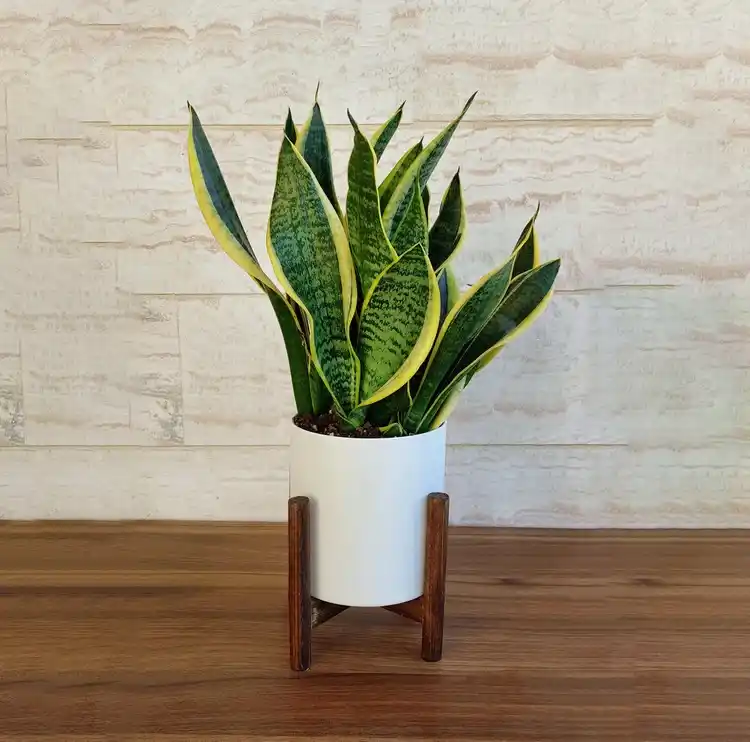
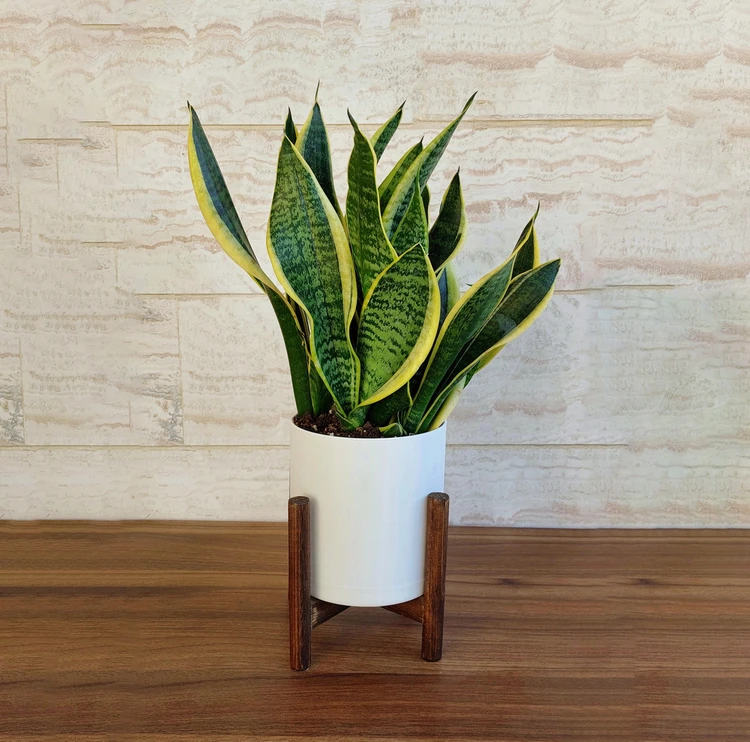
Build and refine responsive plant repotting section

diff --git a/pages/Irrigation.html b/pages/Irrigation.html
@@ -69,7 +69,7 @@
             <h3 class="font-bold text-white">سانسوریا</h3>
             <p class="mt-1 text-xs text-[#D8E3D5]">گیاه مقاوم به خشکی</p>
           </div>
-          <i class="fa-solid fa-seedling text-xl text-[#D8E3D5]"></i>
+          <i class="fa-solid fa-droplet text-xl text-[#D8E3D5]"></i>
         </div>
         <div class="bg-white p-5 text-right">
           <p class="mb-2 text-sm text-[#73796F]">زمان آبیاری</p>
@@ -85,7 +85,7 @@
             <h3 class="font-bold text-white">زامیفولیا</h3>
             <p class="mt-1 text-xs text-[#D8E3D5]">گیاه مقاوم به خشکی</p>
           </div>
-          <i class="fa-solid fa-seedling text-xl text-[#D8E3D5]"></i>
+          <i class="fa-solid fa-droplet text-xl text-[#D8E3D5]"></i>
         </div>
         <div class="bg-white p-5 text-right">
           <p class="mb-2 text-sm text-[#73796F]">زمان آبیاری</p>
@@ -103,7 +103,7 @@ on-300 hover:-translate-y-1 hover:shadow-lg sm:w-[calc(50%-0.625rem)] lg:w-[calc
             <h3 class="font-bold text-white">آلوئهورا</h3>
             <p class="mt-1 text-xs text-[#D8E3D5]">ساکولنت</p>
           </div>
-          <i class="fa-solid fa-seedling text-xl text-[#D8E3D5]"></i>
+          <i class="fa-solid fa-droplet text-xl text-[#D8E3D5]"></i>
         </div>
         <div class="bg-white p-5 text-right">
           <p class="mb-2 text-sm text-[#73796F]">زمان آبیاری</p>
@@ -119,7 +119,7 @@ on-300 hover:-translate-y-1 hover:shadow-lg sm:w-[calc(50%-0.625rem)] lg:w-[calc
             <h3 class="font-bold text-white">مونسترا</h3>
             <p class="mt-1 text-xs text-[#D8E3D5]">گیاه گرمسیری</p>
           </div>
-          <i class="fa-solid fa-leaf text-xl text-[#D8E3D5]"></i>
+          <i class="fa-solid fa-droplet text-xl text-[#D8E3D5]"></i>
         </div>
         <div class="bg-white p-5 text-right">
           <p class="mb-2 text-sm text-[#73796F]">زمان آبیاری</p>
@@ -135,7 +135,7 @@ on-300 hover:-translate-y-1 hover:shadow-lg sm:w-[calc(50%-0.625rem)] lg:w-[calc
             <h3 class="font-bold text-white">اسپاتی فیلوم</h3>
             <p class="mt-1 text-xs text-[#D8E3D5]">گیاه گرمسیری</p>
           </div>
-          <i class="fa-solid fa-leaf text-xl text-[#D8E3D5]"></i>
+          <i class="fa-solid fa-droplet text-xl text-[#D8E3D5]"></i>
         </div>
         <div class="bg-white p-5 text-right">
           <p class="mb-2 text-sm text-[#73796F]">زمان آبیاری</p>
@@ -151,7 +151,7 @@ on-300 hover:-translate-y-1 hover:shadow-lg sm:w-[calc(50%-0.625rem)] lg:w-[calc
             <h3 class="font-bold text-white">پتوس</h3>
             <p class="mt-1 text-xs text-[#D8E3D5]">گیاه رونده</p>
           </div>
-          <i class="fa-solid fa-leaf text-xl text-[#D8E3D5]"></i>
+          <i class="fa-solid fa-droplet text-xl text-[#D8E3D5]"></i>
         </div>
         <div class="bg-white p-5 text-right">
           <p class="mb-2 text-sm text-[#73796F]">زمان آبیاری</p>
@@ -165,7 +165,7 @@ on-300 hover:-translate-y-1 hover:shadow-lg sm:w-[calc(50%-0.625rem)] lg:w-[calc
             <h3 class="font-bold text-white">فیکوس</h3>
             <p class="mt-1 text-xs text-[#D8E3D5]">گیاه درختچهای</p>
           </div>
-          <i class="fa-solid fa-tree text-xl text-[#D8E3D5]"></i>
+          <i class="fa-solid fa-droplet text-xl text-[#D8E3D5]"></i>
         </div>
         <div class="bg-white p-5 text-right">
           <p class="mb-2 text-sm text-[#73796F]">زمان آبیاری</p>
@@ -179,7 +179,7 @@ on-300 hover:-translate-y-1 hover:shadow-lg sm:w-[calc(50%-0.625rem)] lg:w-[calc
             <h3 class="font-bold text-white">گندمی</h3>
             <p class="mt-1 text-xs text-[#D8E3D5]">گیاه علفی</p>
           </div>
-          <i class="fa-solid fa-leaf text-xl text-[#D8E3D5]"></i>
+          <i class="fa-solid fa-droplet text-xl text-[#D8E3D5]"></i>
         </div>
         <div class="bg-white p-5 text-right">
           <p class="mb-2 text-sm text-[#73796F]">زمان آبیاری</p>
@@ -193,7 +193,7 @@ on-300 hover:-translate-y-1 hover:shadow-lg sm:w-[calc(50%-0.625rem)] lg:w-[calc
             <h3 class="font-bold text-white">کالاتیا</h3>
             <p class="mt-1 text-xs text-[#D8E3D5]">گیاه گرمسیری</p>
           </div>
-          <i class="fa-solid fa-leaf text-xl text-[#D8E3D5]"></i>
+          <i class="fa-solid fa-droplet text-xl text-[#D8E3D5]"></i>
         </div>
         <div class="bg-white p-5 text-right">
           <p class="mb-2 text-sm text-[#73796F]">زمان آبیاری</p>
@@ -207,7 +207,7 @@ on-300 hover:-translate-y-1 hover:shadow-lg sm:w-[calc(50%-0.625rem)] lg:w-[calc
             <h3 class="font-bold text-white">پپرومیا</h3>
             <p class="mt-1 text-xs text-[#D8E3D5]">گیاه گوشتی</p>
           </div>
-          <i class="fa-solid fa-seedling text-xl text-[#D8E3D5]"></i>
+          <i class="fa-solid fa-droplet text-xl text-[#D8E3D5]"></i>
         </div>
         <div class="bg-white p-5 text-right">
           <p class="mb-2 text-sm text-[#73796F]">زمان آبیاری</p>

diff --git a/pages/repotting.html b/pages/repotting.html
@@ -28,8 +28,90 @@
       <section></section>
 
       <!-- ==================== Why Repot Section ==================== -->
-      <section></section>
+<section class="w-full px-[0.75rem] py-[1.5rem] sm:px-[1rem] sm:py-[2rem]">
+  <div
+    class="mx-auto flex w-full max-w-6xl flex-col overflow-hidden rounded-3xl bg-[#f8f6ef] shadow-md sm:flex-row">
+    <!-- Image -->
+    <div class="w-full shrink-0 sm:w-1/2">
+      <img
+        src="../assets/image/care-tips/repotting/repotting-why.webp"
+        alt="تعویض گلدان گیاه"
+        class="h-[14rem] w-full object-cover min-[23.4375rem]:h-[16rem] sm:h-full sm:min-h-[24rem]"/>
+    </div>
+    <!-- Content -->
+    <div
+      class="flex w-full min-w-0 flex-col items-center justify-center overflow-hidden px-[0.75rem] py-[1.75rem] text-center min-[23.4375rem]:px-[1rem] sm:w-1/2 sm:px-[1.5rem] sm:py-[2rem] lg:px-[3rem]">
+      <!-- Title -->
+      <h2
+        class="mb-[1rem] w-full overflow-hidden whitespace-nowrap text-right text-[0.875rem] font-bold leading-relaxed text-[#436d57] min-[20rem]:text-[0.9375rem] min-[23.4375rem]:text-base min-[26.5625rem]:text-lg min-[31.25rem]:text-xl sm:text-xl md:text-xl lg:text-3xl">
+        <i class="fa-brands fa-pagelines text-[#335543]"></i>
+        چرا باید گلدان را تعویض کنیم؟
+      </h2>
+      <!-- Description -->
+      <div class="w-full min-w-0 overflow-hidden">
+        <p
+          class="w-full px-[2.25rem] whitespace-nowrap text-right text-[0.5rem] leading-6 text-gray-600
+          min-[20rem]:text-[0.5625rem]
+          min-[23.4375rem]:text-[0.625rem]
+          min-[26.5625rem]:text-[0.6875rem]
+          min-[31.25rem]:text-xs
+          min-[40rem]:text-[0.625rem]
+          min-[48rem]:text-sm
+          min-[64rem]:text-base">
+          با گذشت زمان، ریشهها تمام فضای گلدان را پر میکنند.
+          <br />
+          خاک مواد مغذی خود را از دست میدهد و زهکشی کاهش مییابد.
+          <br />
+          این عوامل باعث کندی رشد و حتی آسیب به گیاه میشوند.
+        </p>
+      </div>
+      <!-- Features -->
+      <div
+        class="mt-[1.75rem] flex w-full flex-row flex-nowrap items-start justify-between gap-[0.25rem] min-[23.4375rem]:gap-[0.5rem] min-[31.25rem]:gap-[0.75rem] sm:mt-[2rem] sm:gap-[1rem] lg:gap-[1.5rem]">
+        <!-- Feature 1 -->
+        <div
+          class="flex min-w-0 flex-1 flex-col items-center gap-[0.375rem] min-[23.4375rem]:gap-[0.5rem]">
+          <div
+            class="flex h-[2.5rem] w-[2.5rem] shrink-0 items-center justify-center rounded-full bg-[#f1eee3] min-[23.4375rem]:h-[2.75rem] min-[23.4375rem]:w-[2.75rem] min-[31.25rem]:h-[3rem] min-[31.25rem]:w-[3rem] sm:h-[4rem] sm:w-[4rem]">
+            <i
+              class="fa-solid fa-droplet text-[0.875rem] text-[#335543] min-[23.4375rem]:text-base min-[31.25rem]:text-[1.125rem] sm:text-2xl"></i>
+          </div>
+          <span
+            class="w-full whitespace-nowrap text-center text-[0.5625rem] font-medium text-gray-700 min-[20rem]:text-[0.625rem] min-[23.4375rem]:text-[0.6875rem] min-[31.25rem]:text-xs sm:text-sm">
+            بهبود زهکشی
+          </span>
+        </div>
+        <!-- Feature 2 -->
+        <div
+          class="flex min-w-0 flex-1 flex-col items-center gap-[0.375rem] min-[23.4375rem]:gap-[0.5rem]">
+          <div
+            class="flex h-[2.5rem] w-[2.5rem] shrink-0 items-center justify-center rounded-full bg-[#f1eee3] min-[23.4375rem]:h-[2.75rem] min-[23.4375rem]:w-[2.75rem] min-[31.25rem]:h-[3rem] min-[31.25rem]:w-[3rem] sm:h-[4rem] sm:w-[4rem]">
+            <i
+              class="fa-solid fa-seedling text-[0.875rem] text-[#335543] min-[23.4375rem]:text-base min-[31.25rem]:text-[1.125rem] sm:text-2xl"></i>
+          </div>
+          <span
+            class="w-full whitespace-nowrap text-center text-[0.5625rem] font-medium text-gray-700 min-[20rem]:text-[0.625rem] min-[23.4375rem]:text-[0.6875rem] min-[31.25rem]:text-xs sm:text-sm">
+            رشد بهتر
+          </span>
+        </div>
+        <!-- Feature 3 -->
+        <div
+          class="flex min-w-0 flex-1 flex-col items-center gap-[0.375rem] min-[23.4375rem]:gap-[0.5rem]">
+          <div
 
+class="flex h-[2.5rem] w-[2.5rem] shrink-0 items-center justify-center rounded-full bg-[#f1eee3] min-[23.4375rem]:h-[2.75rem] min-[23.4375rem]:w-[2.75rem] min-[31.25rem]:h-[3rem] min-[31.25rem]:w-[3rem] sm:h-[4rem] sm:w-[4rem]">
+            <i
+              class="fa-solid fa-leaf text-[0.875rem] text-[#335543] min-[23.4375rem]:text-base min-[31.25rem]:text-[1.125rem] sm:text-2xl"></i>
+          </div>
+          <span
+            class="w-full whitespace-nowrap text-center text-[0.5625rem] font-medium text-gray-700 min-[20rem]:text-[0.625rem] min-[23.4375rem]:text-[0.6875rem] min-[31.25rem]:text-xs sm:text-sm">
+            سلامت ریشهها
+          </span>
+        </div>
+      </div>
+    </div>
+  </div>
+</section>
       <!-- ==================== Repotting Steps Section ==================== -->
       <section></section>
 
